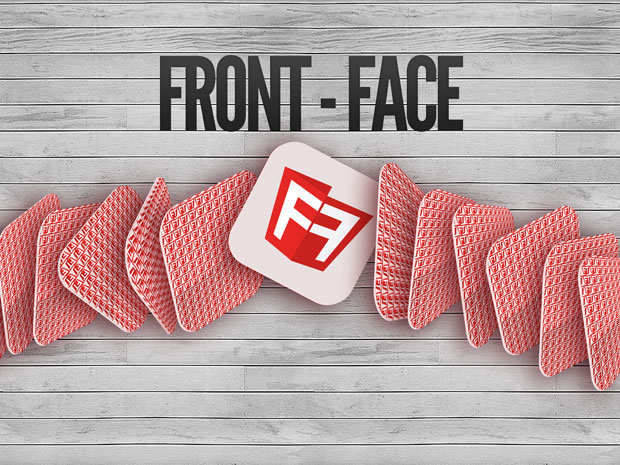
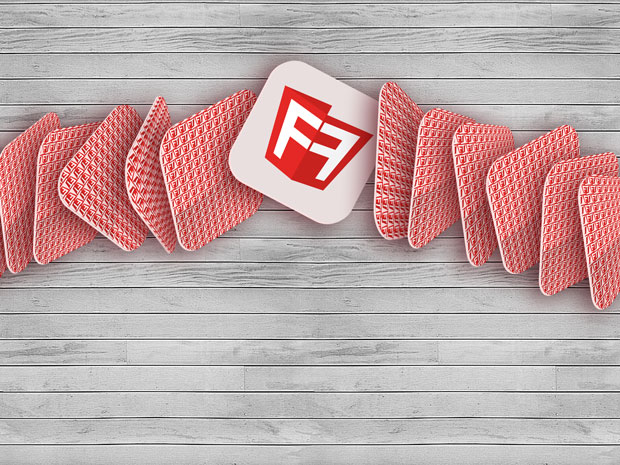
bugfixing, geolocation, css 3d

diff --git a/js/init.js b/js/init.js
@@ -85,47 +85,82 @@ GAME.API.offline = function() {
 };
 
 GAME.API.geolocation = function() {
-	if (navigator.geolocation) {
-		//console.log('Geolocation is supported!');
+	// Demo by Robert Nyman taken from:
+	// http://robertnyman.com/html5/geolocation/current-location-and-directions.html
 
-		var startPos;
-		navigator.geolocation.getCurrentPosition(function(position) {
-			startPos = position;
-			GAME.$id('geo').innerHTML = '[ Lat: '+(~~startPos.coords.latitude)+' | Lon: '+(~~startPos.coords.longitude)+' ] Click 4 popup & more!';
-		});
-	}
-	else {
-		//console.log('Geolocation is not supported for this Browser/OS version yet.');
-	}
+	GAME.$showModal('<div id="map-container"><div id="map"></div><div id="map-directions"></div></div>'+GAME.$txt.close,'modalBig');
+	GAME.$id('close').onclick = function() { GAME.$hideModal(); }
 
-	// calculat the distance between the Warsaw and the user's current location
-	// http://www.html5rocks.com/en/tutorials/geolocation/trip_meter/
-	// http://breakthebit.org/post/10512237123/using-html5-geolocation-api-to-get-the-distance-of-the
-	// http://mobile.tutsplus.com/tutorials/mobile-web-apps/html5-geolocation/
-	// http://www.ip2location.com/html5geolocationapi.aspx
-	// http://www.sitepoint.com/using-the-html5-geolocation-api/
-	// http://spektom.blogspot.com/2010/05/html5-geolocation-api-is-scaring-me.html
-	// http://robertnyman.com/2010/03/15/geolocation-in-web-browsers-to-find-location-google-maps-examples/
-	// !!! http://robertnyman.com/html5/geolocation/current-location-and-directions.html !!!
-	/*
-	document.getElementById('distance').innerHTML =
-		calculateDistance(startPos.coords.latitude, startPos.coords.longitude,
-			position.coords.latitude, position.coords.longitude);
-	*/
+	var directionsService = new google.maps.DirectionsService(),
+		directionsDisplay = new google.maps.DirectionsRenderer(),
+		createMap = function (start) {
+			var travel = {
+					origin : (start.coords)? new google.maps.LatLng(start.lat, start.lng) : start.address,
+					destination : "Mińska 25, Warszawa",
+					travelMode : google.maps.DirectionsTravelMode.DRIVING
+					// Exchanging DRIVING to WALKING above can prove quite amusing :-)
+				},
+				mapOptions = {
+					zoom: 10,
+					// Default view: Warsaw
+					center : new google.maps.LatLng(52.025459, 19.204102),
+					mapTypeId: google.maps.MapTypeId.ROADMAP
+				};
+
+			var map = new google.maps.Map(document.getElementById("map"), mapOptions);
+			directionsDisplay.setMap(map);
+			directionsDisplay.setPanel(document.getElementById("map-directions"));
+			directionsService.route(travel, function(result, status) {
+				if (status === google.maps.DirectionsStatus.OK) {
+					directionsDisplay.setDirections(result);
+					
+					//console.log('DISTANCE: '+result.routes[0].legs[0].distance.text);
+					GAME.$id('geo').innerHTML = "You're "+result.routes[0].legs[0].distance.text+" from the venue!";
+				}
+			});
+		};
+
+		// Check for geolocation support	
+		if (navigator.geolocation) {
+			navigator.geolocation.getCurrentPosition(function (position) {
+					// Success!
+					createMap({
+						coords : true,
+						lat : position.coords.latitude,
+						lng : position.coords.longitude
+					});
+				}, 
+				function () {
+					// Gelocation fallback: Defaults to Warsaw
+					createMap({
+						coords : false,
+						address : "Warszawa"
+					});
+				}
+			);
+		}
+		else {
+			// No geolocation fallback: Defaults to Warsaw
+			createMap({
+				coords : false,
+				address : "Warszawa"
+			});
+		}
 };
 
 GAME.ThreeD = function() {
-	//console.log('3D!');
+	// Demo by Chris Heilmann taken from:
+	// http://hacks.mozilla.org/2012/03/getting-you-started-for-the-css-3d-transform-dev-derby-15-minute-screencast/
 
 	var threeHTML = ''+
-	'<div class="cubecontainer labeled">'+
+	'<div class="cubecontainer">'+
 		'<ul class="cube left">'+
 			'<li class="front" id="side_0" data-label="Front">Front</li>'+
 			'<li class="left" id="side_1" data-label="Left">Left</li>'+
 			'<li class="back" id="side_2" data-label="Back">Back</li>'+
 			'<li class="right" id="side_3" data-label="Right">Right</li>'+
 			'<li class="bottom" id="side_4" data-label="Bottom">Bottom</li>'+
-			'<li class="top" id="side_5" data-label="Top">Top</li>'+
+		//	'<li class="top" id="side_5" data-label="Top">Top</li>'+
 		'</ul>'+
 	'</div>';
 	//GAME.$id('start').style.display = 'none';

diff --git a/js/game.js b/js/game.js
@@ -9,7 +9,11 @@ GAME.Init = function() {
 	GAME.$id('threedee').onclick = function() { GAME.ThreeD(); };
 	GAME._counter = 10;
 	GAME.API.localStorage('showScore');
-	//GAME.API.geolocation();
+	GAME.$id('geo').onclick = function() { GAME.API.geolocation(); };
+	GAME.$id('ticket').onclick = function() {
+		GAME.$showModal('info about winning the ticket'+GAME.$txt.close);
+		GAME.$id('close').onclick = function() { GAME.$hideModal(); }
+	};
 };
 
 GAME.Start = function(opt) {
@@ -37,27 +41,18 @@ GAME.NewLevel = function(lvl) {
 	}
 
 	// bind clicks to the cards
-	
 	if(lvl) {
 		board.innerHTML = elements;
 	}
-	else {/*
-		// rozmiesc elementy na sciankach
-		var elementz = '';
-		for (var j = 0; j < 6; j++) {
-			var side = '';
-			for (var k = 0; k < 4; k++) {
-				side += '';
-			};
-			GAME.$id('side_'+j).innerHTML = 'sajd '+j;
-		}*/
+	else {
 		lvl = 1;
-		GAME.$id('side_0').innerHTML = '<p id="card_'+0+'"></p><p id="card_'+1+'"></p><p id="card_'+2+'"></p><p id="card_'+3+'"></p>';
-		GAME.$id('side_1').innerHTML = '<p id="card_'+4+'"></p><p id="card_'+5+'"></p><p id="card_'+6+'"></p><p id="card_'+7+'"></p>';
-		GAME.$id('side_2').innerHTML = '<p id="card_'+8+'"></p><p id="card_'+9+'"></p><p id="card_'+10+'"></p><p id="card_'+11+'"></p>';
-		GAME.$id('side_3').innerHTML = '<p id="card_'+12+'"></p><p id="card_'+13+'"></p><p id="card_'+14+'"></p><p id="card_'+15+'"></p>';
-		GAME.$id('side_4').innerHTML = '<p id="card_'+16+'"></p><p id="card_'+17+'"></p><p id="card_'+18+'"></p><p id="card_'+19+'"></p>';
-		GAME.$id('side_5').innerHTML = '[NULL]';
+		for (var i = 0; i < 5; i++) {
+			var cardHTML = '';
+			for (var j = 0; j < 4; j++) {
+				cardHTML += '<p id="card_'+(i*4+j)+'"></p>';
+			}
+			GAME.$id('side_'+i).innerHTML = cardHTML;//'<p id="card_'+(i*4)+'"></p><p id="card_'+(i*4+1)+'"></p><p id="card_'+(i*4+2)+'"></p><p id="card_'+(i*4+3)+'"></p>';
+		}
 	}
 
 	var els = board.getElementsByTagName('p');
@@ -71,8 +66,6 @@ GAME.NewLevel = function(lvl) {
 		var data = GAME.data[((lvl-1)*GAME._counter)+i];
 		GAME._board.push(data, data);
 	}
-
-	console.dir(GAME._board);
 
 	// shuffle array 10 times - just to be sure it's more or less random
 	for (var i = 10; i >= 0; i--) {
@@ -110,8 +103,6 @@ GAME.CardClick = function(card) {
 	if(GAME._active) {
 		var card_id = card.id.split('_')[1],
 			item = GAME._board[card_id];
-
-		console.dir(GAME._board);
 
 		card.onclick = function() {};
 		card.className = 'visible';
@@ -175,6 +166,7 @@ GAME.Form = function(item) {
 	GAME.$id('radio1').onclick = function() { GAME.CheckAnswer(this,item[subject]); };
 	GAME.$id('radio2').onclick = function() { GAME.CheckAnswer(this,item[subject]); };
 	GAME.$id('radio3').onclick = function() { GAME.CheckAnswer(this,item[subject]); };
+	GAME.$id('continue').style.visibility = 'hidden';
 	//document.getElementsByTagName('input').onclick = function() { GAME.CheckAnswer(this); };
 };
 
@@ -204,7 +196,7 @@ GAME.CheckAnswer = function(chosen,correct) {
 
 	GAME.$id('continue').onclick = function() {
 		GAME.$hideModal();
-		if(GAME._questions == 10) {
+		if(GAME._questions == 1) {
 			setTimeout(function(){
 				GAME.$showModal(GAME.$txt.halfway+GAME.$txt.continue);
 				GAME.$id('newLevel').style.visibility = 'visible';
@@ -214,7 +206,7 @@ GAME.CheckAnswer = function(chosen,correct) {
 				};
 			},200);
 		}
-		else if(GAME._questions == 20) {
+		else if(GAME._questions == 2) {
 			setTimeout(function(){
 				GAME.TimerStop();
 				GAME.Page('gameover');

diff --git a/css/style.css b/css/style.css
@@ -39,7 +39,8 @@ h1 a,
 .modal .continue span,
 .page h2,
 .page h3,
-.howto {
+.howto,
+nav button {
 	font-family: "LeagueGothicRegular", "Helvetica", Arial, sans-serif;
 	font-weight: normal;
 	text-transform: uppercase;
@@ -58,7 +59,7 @@ h1 {
 	width: 960px;
 	text-align: center;
 	font-size: 28px;
-	padding: 10px 0;
+	padding: 10px 0 10px 130px;
 	text-shadow: 1px 1px 1px #fff;
 }
 h1 a {
@@ -83,7 +84,7 @@ h1 a img {
 	float: left;
 	background: #ccc url(../img/bg.jpg) 0 0 repeat;
 	border-radius: 10px;
-	box-shadow: 0 0 5px #666 inset;
+	box-shadow: 0 0 7px #333 inset;
 	opacity: 1;
 	padding-top: 15px;
 }
@@ -129,7 +130,7 @@ h1 a img {
 	border-radius: 10px;
 	padding: 10px 15px;
 	box-shadow: 0 0 3px #a30906 inset, 1px 1px 1px #666;
-	margin: 355px auto 0;
+	margin: 305px auto 0;
 	color: #f3f3f4;
 }
 
@@ -152,7 +153,7 @@ h1 a img {
 	color: #c60f0b;
 }
 .panel .links.sublinks {
-	padding: 0 20px;
+	padding: 35px 20px 0;
 }
 .panel .links.sublinks p {
 	font-size: 20px;
@@ -230,7 +231,6 @@ h1 a img {
 	border: 1px solid #2c2c2c;
 }
 .modal .continue {
-	visibility: hidden;
 	text-align: right;
 }
 .modal .continue span {
@@ -241,6 +241,9 @@ h1 a img {
 	border-radius: 5px;
 	padding: 5px 15px;
 	font-size: 22px;
+}
+.modalBig {
+	width: 800px;
 }
 
 #modalBg {
@@ -353,20 +356,31 @@ footer .score:hover {
 	float: left;
 }
 
-
+.perspective .board .cubecontainer {
+	width: 580px;
+	height: 400px;
+}
+.perspective .board .cubecontainer nav {
+	margin: 0 auto;
+	text-align: center;
+}
 nav button {
-	color: #333;
+	font-size: 20px;
+	display: inline-block;
+	text-align: center;
 	cursor: pointer;
-	background: #888;
-	border-radius: 10px;
-	margin-left: 10px;
+	background: #e62f2b;
+	border-radius: 5px;
+	padding: 5px 10px;
+	box-shadow: 0 0 3px #a30906 inset, 1px 1px 1px #666;
+	color: #f3f3f4;
+	margin: 10px 10px;
 }
 
-
 .perspective .cubecontainer nav {
-  position: absolute;
+  /*position: absolute;
   top: 0;
-  left: 0;
+  left: 50px;*/
 }
 .cube li { 
   float: left;
@@ -381,6 +395,7 @@ nav button {
 }
 .perspective .cube {
   overflow: visible;
+  margin: 80px 0 0 90px;
 }
 .perspective .cubecontainer nav li {
   display: inline;
@@ -389,7 +404,6 @@ nav button {
   display: block;
   width: 100px;
   height: 100px;
-  padding: 10px;
 }
 
 .perspective .cube img {
@@ -402,12 +416,12 @@ button {
   border: none;
   background: transparent;
   font-weight: bold;
-  color: lime;
+  color: #ccc;
   font-size: 15px;
   padding: 5px 10px;
 }
-.perspective .labeled .cube li{
-  background: rgba(50,200,0,0.8);
+.perspective .cube li{
+  background: rgba(150,150,150,0.8);
   font-size:50px;
   line-height: 200px;
   text-align: center;
@@ -550,4 +564,26 @@ button {
       -ms-transform: rotateX(-90deg) translate3d(0, 0, 100px);
        -o-transform: rotateX(-90deg) translate3d(0, 0, 100px);
           transform: rotateX(-90deg) translate3d(0, 0, 100px);
+}
+
+
+
+
+#map-container {
+	overflow: hidden;
+	margin-bottom: 20px;
+	border: 1px solid #999;
+	border-radius: 10px;
+}
+#map {
+	float: left;
+	width: 399px;
+	height: 400px;
+}
+#map-directions {
+	float: left;
+	width: 369px;
+	height: 400px;
+	padding: 0 15px;
+	overflow: auto;
 }

diff --git a/index.html b/index.html
@@ -11,6 +11,7 @@
 	<script src="js/init.js"></script>
 	<script src="js/data.js"></script>
 	<script src="js/game.js"></script>
+	<script src="http://maps.google.com/maps/api/js?sensor=false"></script>
 </head>
 <body>
 	<div class="container">
@@ -38,9 +39,8 @@
 				<p id="threedee">Make it 3D!</p>
 			</div>
 			<div class="links sublinks">
-				<p>Twitterize it</p>
-				<p>Geolocate me</p>
-				<p>How to win a ticket</p>
+				<p id="geo">Geolocate me <span style="display: none; font-size: 14px; line-height: 14px; padding-bottom: 10px;">...and find the shortest way to the conference!</span></p>
+				<p id="ticket">How to win a ticket</p>
 				<p id="score"></p>
 			</div>
 		</div>
